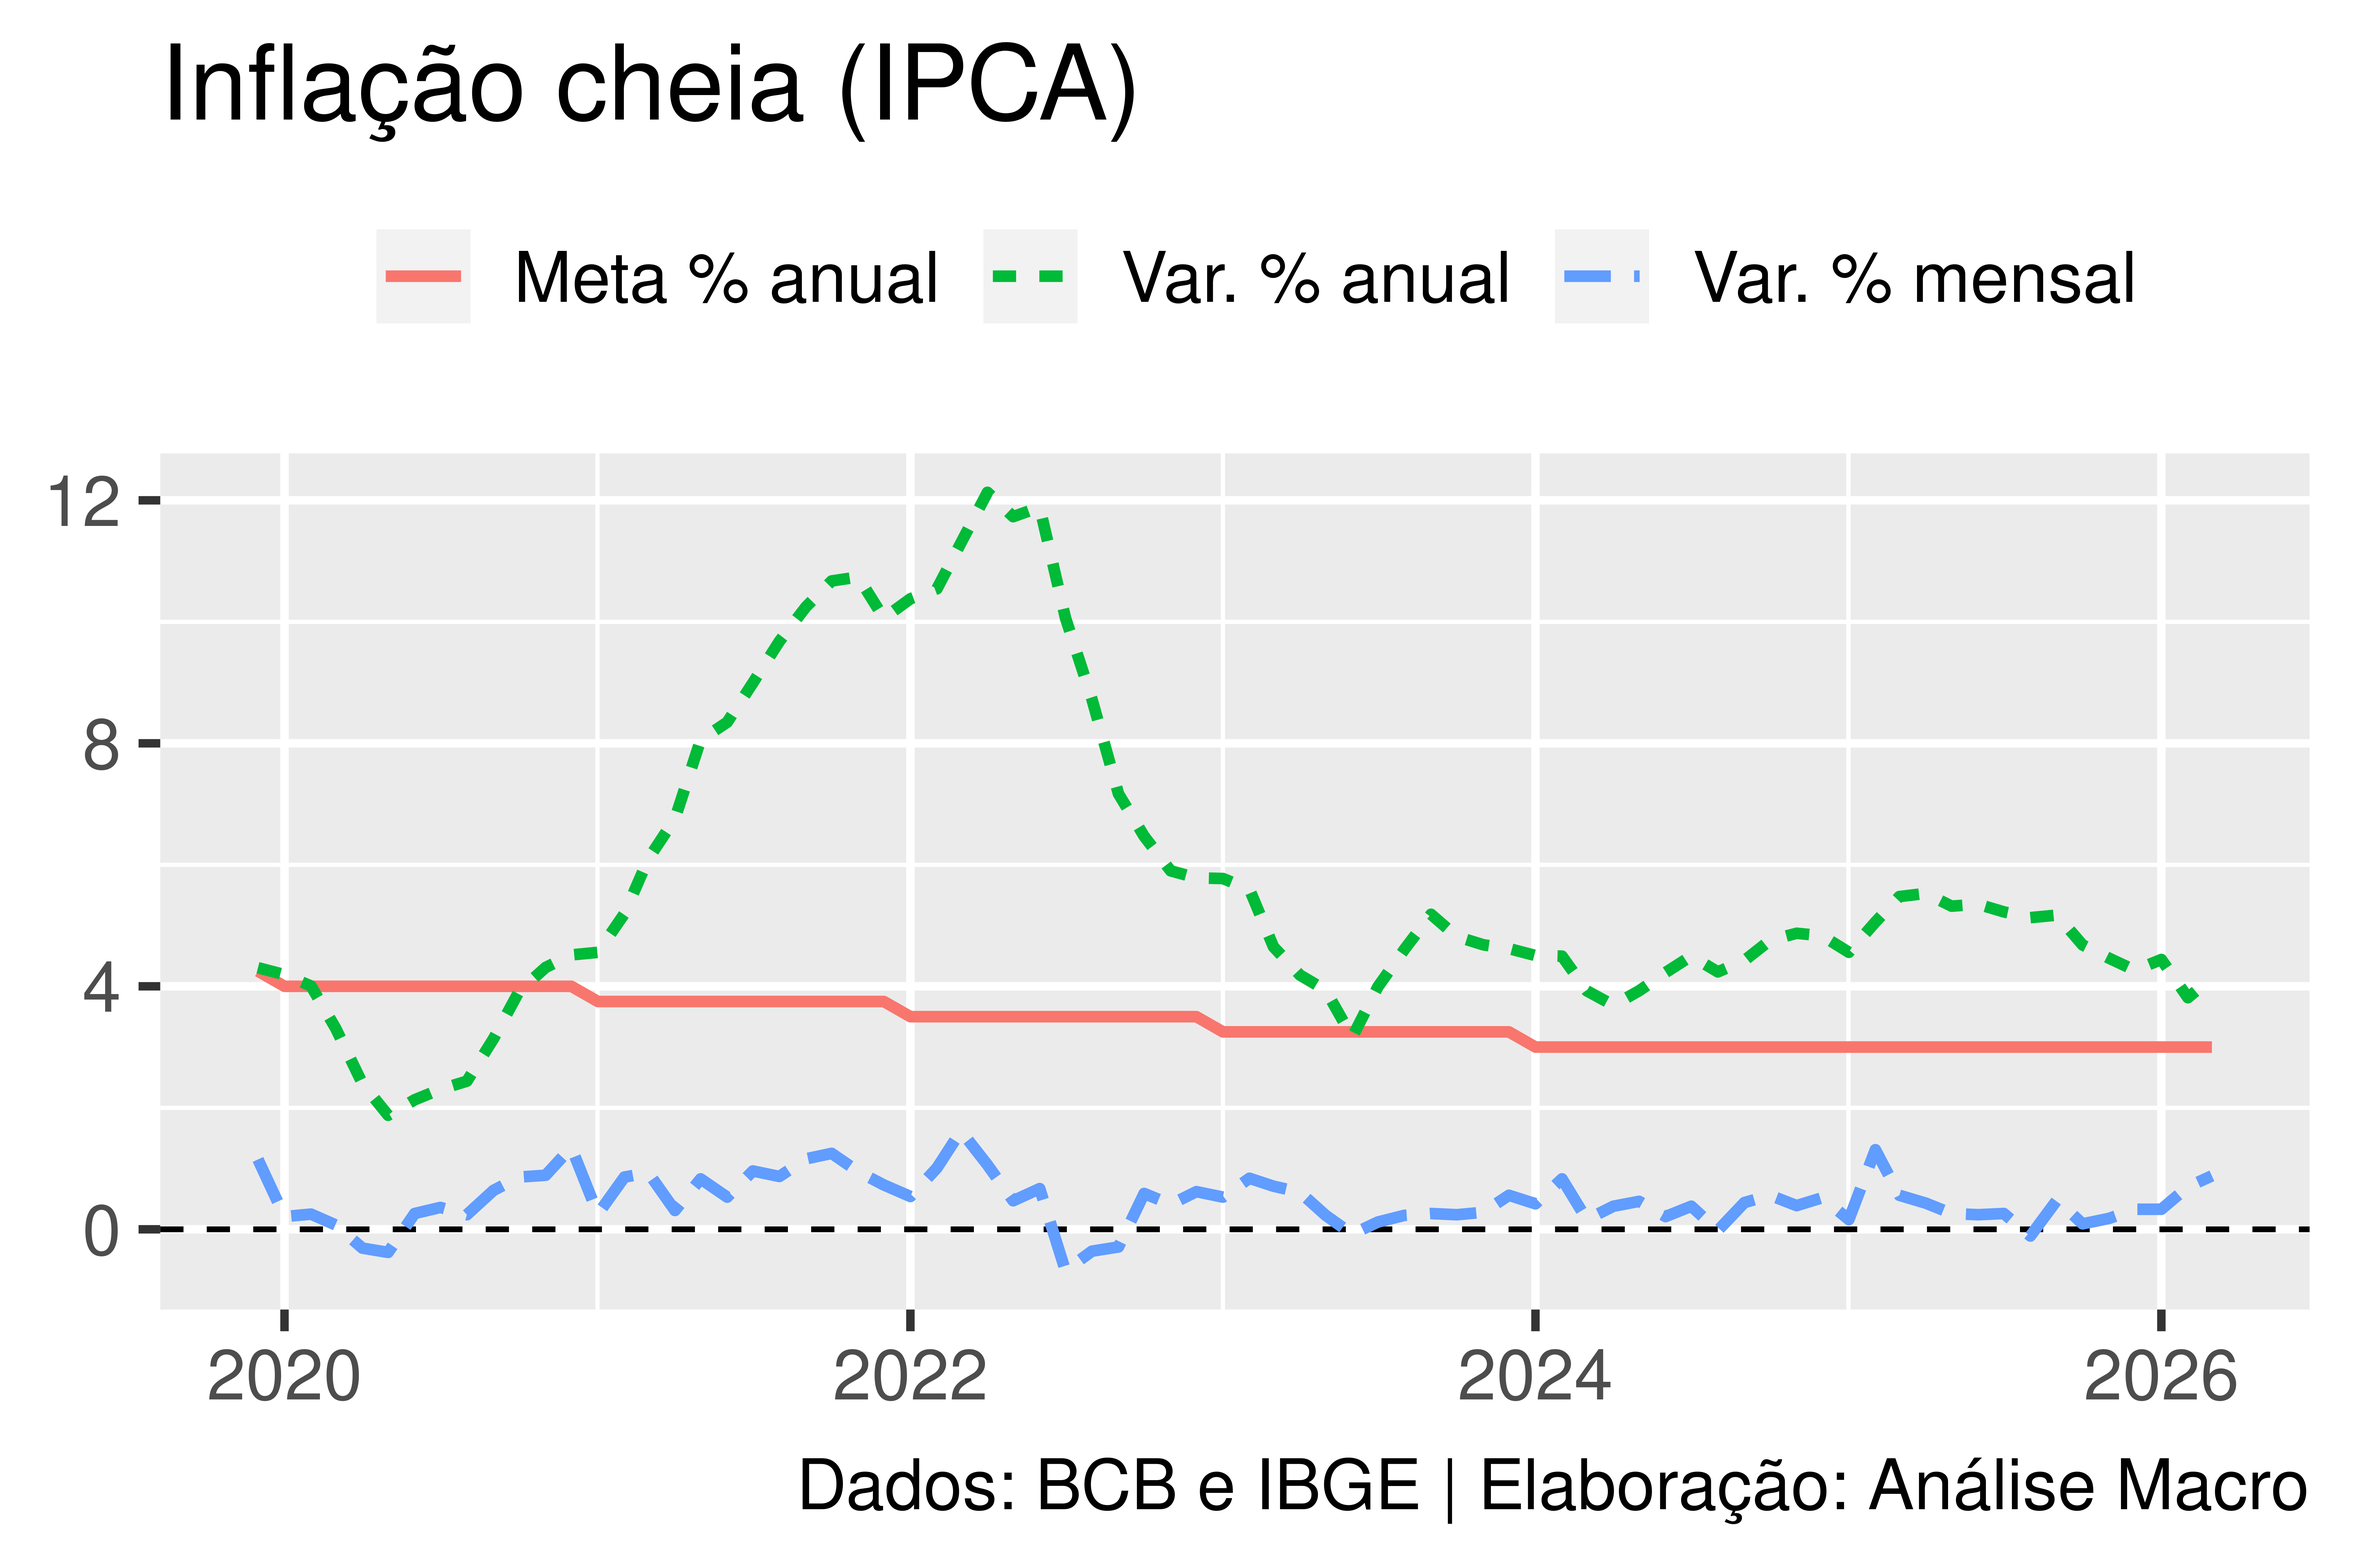
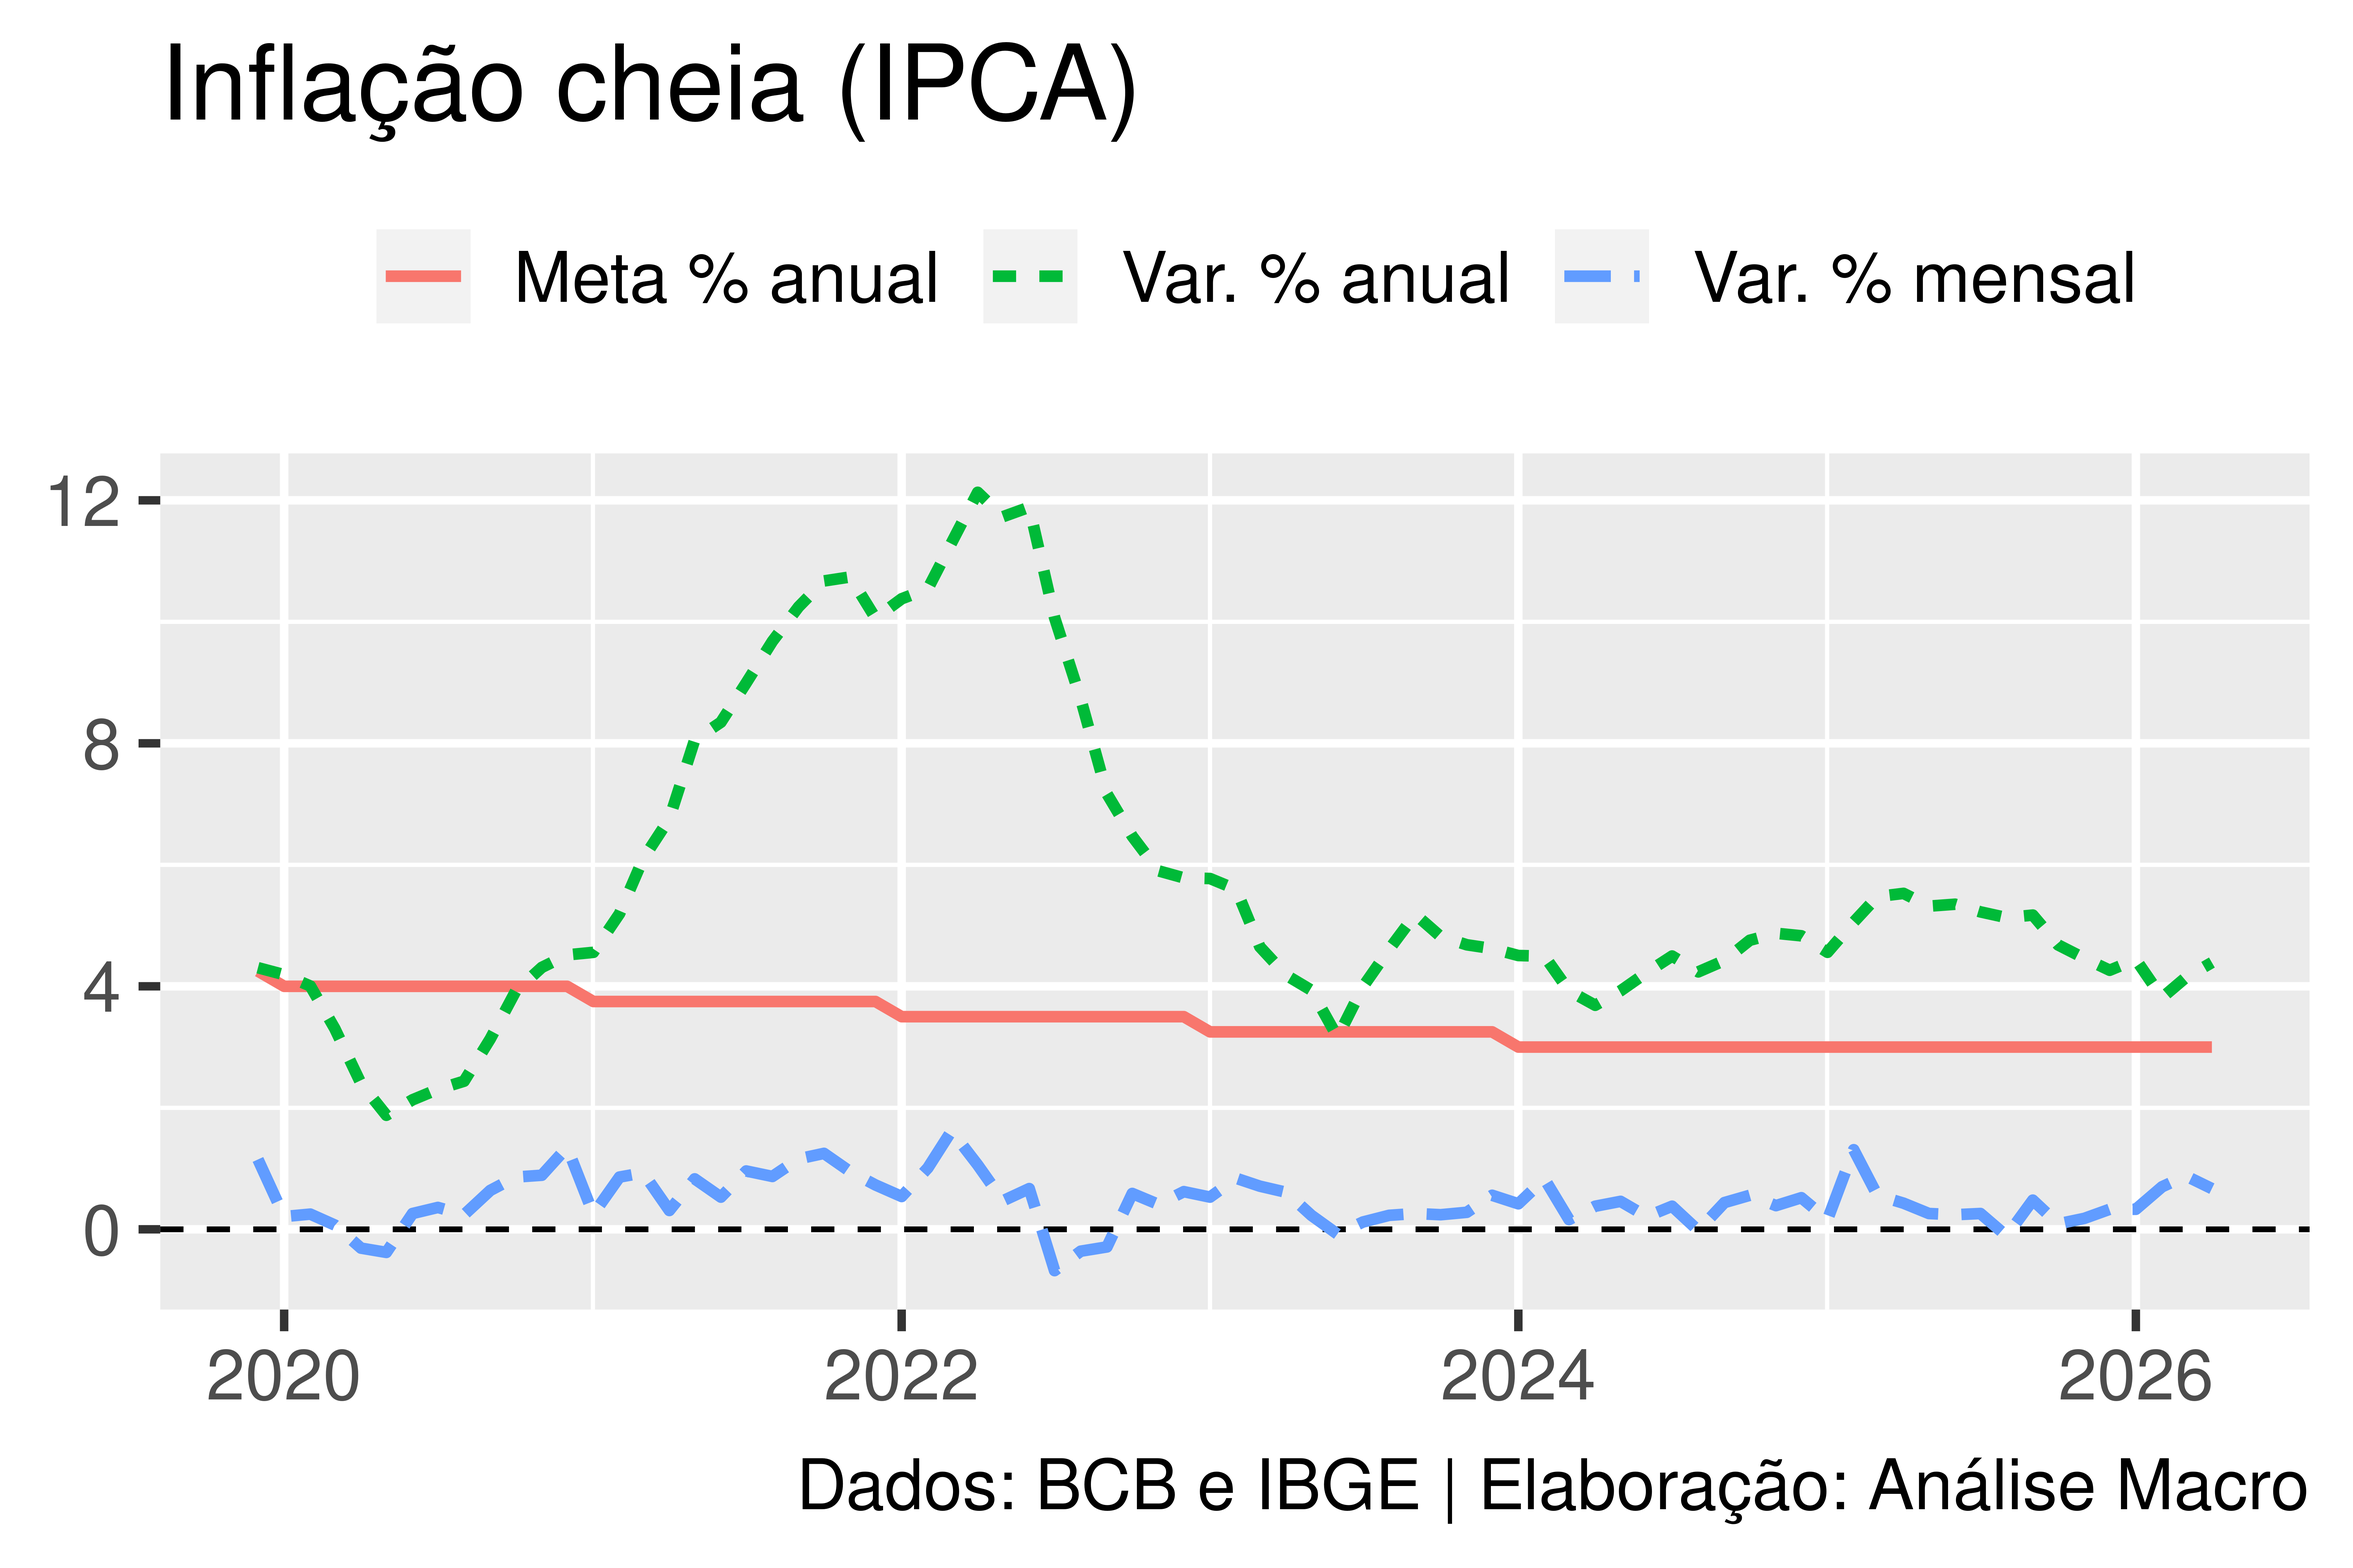
Atualização de relatório automatizada

diff --git a/relatório_ipca/ipca.html b/relatório_ipca/ipca.html
@@ -79,8 +79,8 @@ ul.task-list li input[type="checkbox"] {
 <h2 class="anchored" data-anchor-id="inflação-cheia">Inflação cheia</h2>
 <p>Principais destaques para o Índice nacional de preços ao consumidor-amplo (IPCA):</p>
 <ul>
-<li>O IPCA variou 0,88% no mês de 03/2026 em relação ao mês anterior.</li>
-<li>Em termos anuais, o IPCA acumula 4,14% nos últimos 12 meses.</li>
+<li>O IPCA variou 0,67% no mês de 04/2026 em relação ao mês anterior.</li>
+<li>Em termos anuais, o IPCA acumula 4,39% nos últimos 12 meses.</li>
 <li>Para o ano de 2026 a meta de inflação é de 3,00%. As informações são, quando não explicitamente referenciadas, do IBGE.</li>
 </ul>
 <div class="callout callout-style-default callout-note callout-titled">
